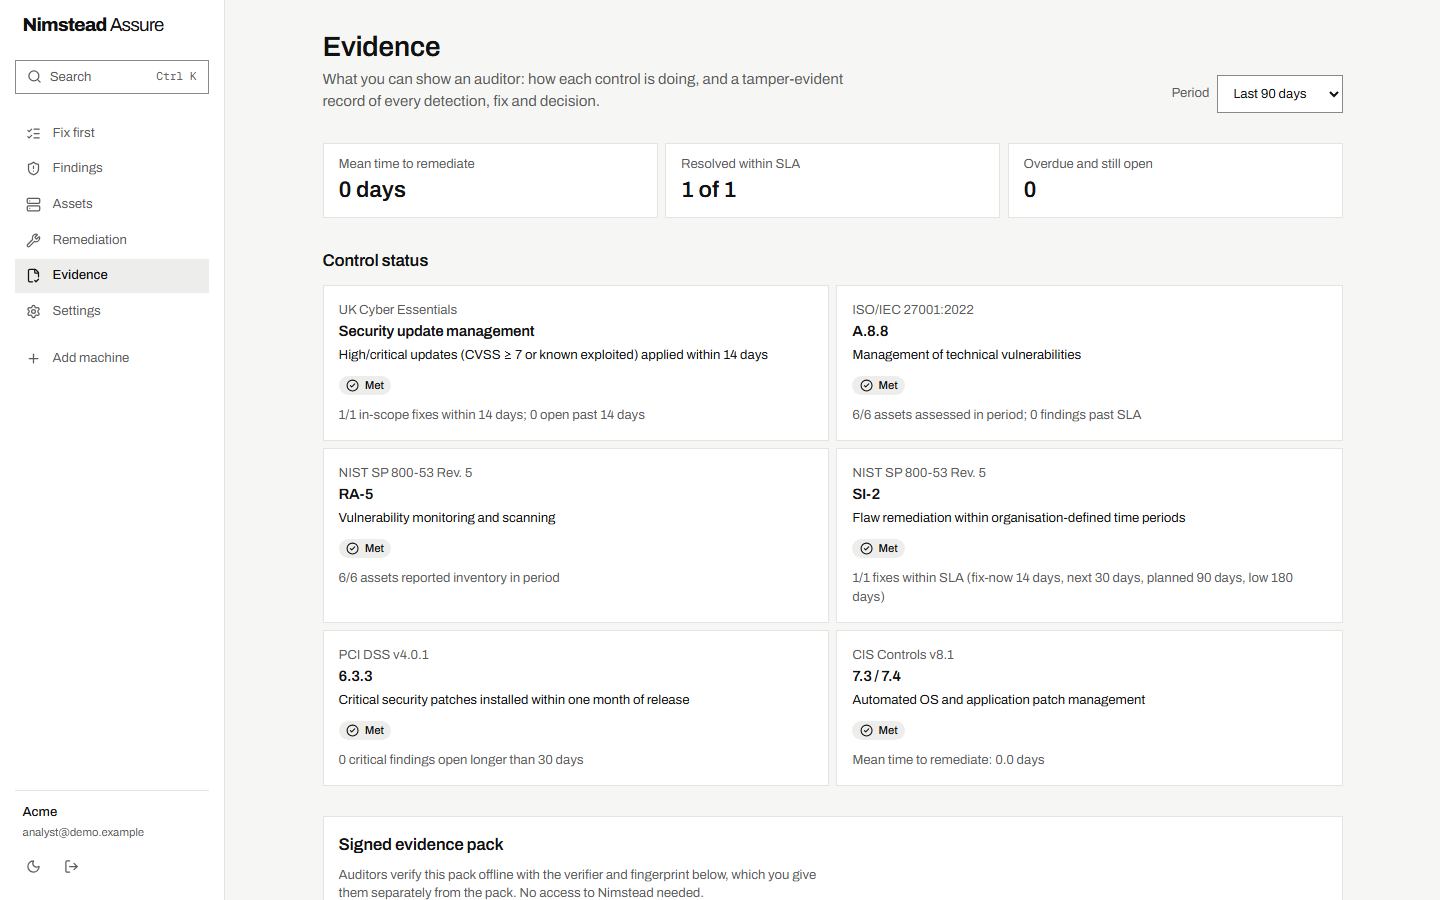
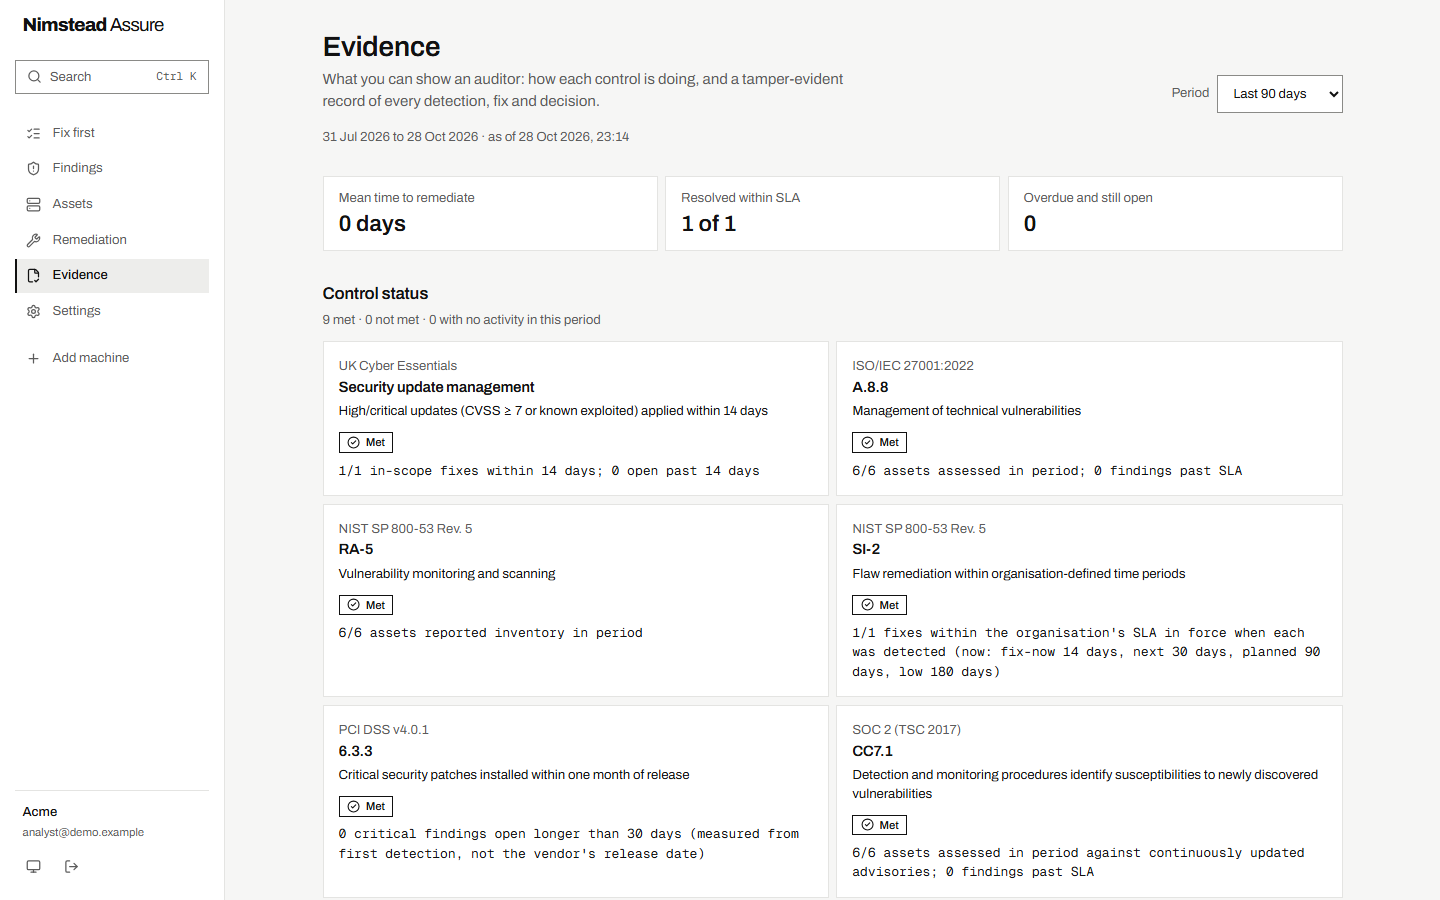
Docs: UI/UX round 1 changelog, DECISIONS 41-47, status, screenshots

diff --git a/DECISIONS.md b/DECISIONS.md
@@ -51,3 +51,10 @@ Short log; newest last. Why, not what.
 38. **The first install trusts the server; we say so rather than pretend.** Updates are signed (31), but `install.sh` fetches the first agent from the server, so a compromised server can hand new hosts a modified agent (enrolled hosts are unaffected). Verifying inside the installer wouldn't help: the verifier would come from the same server. So the fetch is HTTPS-only, the installer prints the agent's SHA-256, and docs/install.md shows the out-of-band path: download the release from GitHub, check it with a trusted agent's `verify-release`, compare hashes.
 39. **Agents only move forward, on their own channel.** A host records its channel at enrol (the installer passes its server's) and refuses signed releases from a less proven one, so a compromised server can't hand a stable fleet a preview build; hosts enrolled before 0.3.0 keep taking everything, as before. Remediation never installs an older build: a pinned version must be newer by the package manager's own ordering (`dpkg --compare-versions`, `apk version -t`), and any downgrade in a dry run is refused (apk would otherwise do it). Rollback copies are deleted once the outcome is saved (kept after a failed rollback), and no change starts below 1 GiB free, so neither normal use nor a stream of jobs fills the disk. A signed `min_agent_version` or revocation list was rejected: a compromised server can withhold any signal it relays, so the real defence is that hosts take the newest signed release and can never be pushed back (docs/release-keys.md).
 40. **The evidence pack says what its clocks measure.** Organisations set their own remediation deadlines per priority (NIST SI-2's "organisation-defined"), shown in the pack; each finding is held to the deadline in force when it was detected, read from the ledger, so relaxing one later can't turn an old miss into a pass; Cyber Essentials' 14 days stays fixed. Mappings added for SOC 2 CC7.1 and CC8.1 (CC8.1 from the approvals actually recorded on each remediation job) and NIS2 Art. 21(2)(e). Times run from first detection, not the vendor's release date (PCI 6.3.3 asks for the latter), and the pack says so instead of implying otherwise.
+41. **Confirm only what's high-stakes or hard to undo (UI round 1).** Switching the trust ladder to Auto, revoking an API token, removing someone or changing their role, signing out everywhere and cancelling a fix ask first, all through one `ConfirmDialog`; the browser's own `confirm()` is gone. Choosing a trust-ladder mode only selects it (arrow keys move through radios, so saving on change could turn on Auto by accident); Save applies it. Low-stakes per-machine settings (criticality, ring, internet-facing, health units) keep saving as you change them and say "Saved. Findings re-ranked." A per-machine edit form was rejected: more code for the same safety.
+42. **One set of shared components in `web/src/ui.tsx`.** Buttons, inputs, chips, switches, tags, alerts, "Saved" messages, fields, loading states, status pills and dialogs live in one place; pages don't define their own. Admin-only actions stay focusable with `aria-disabled` and point to one visible "Read-only" note, because a disabled button with a `title` can't be reached by keyboard or touch.
+43. **Square stays.** The identity is ink on paper with square corners and crimson only for "fix now" and KEV. The stray rounded chips, pills and skeletons were squared off; `rounded-full` is kept only for real circles (the switch). The remaining `rounded-*` classes do nothing under the zero-radius tokens and were left alone.
+44. **The server says whether a fix is already in flight.** `/api/summary` actions carry `asset_ids` and the newest active `job`, so Home links to it instead of offering "Plan fix", which the API refuses while a job is active. Failed jobs aren't included: they're listed under "needs a look" and can be planned again.
+45. **Evidence says "no activity" rather than "met" when there was nothing to assess (owner decision, 2026-10-28).** For controls that are only about timeliness (Cyber Essentials update management, NIST SI-2, CIS 7.3/7.4) a period with no fixes and nothing overdue, and for SOC 2 CC8.1 a period with no changes, is `no_activity`. An auditor reading a signed pack shouldn't have to work out that "met" meant "0 of 0". Controls that include monitoring (ISO A.8.8, RA-5, CC7.1, NIS2) or make a true negative claim (PCI 6.3.3) keep met/not met. Overdue findings always mean `not_met`. The value is added to the existing `nimstead-evidence/1` format; `verify_pack.py` doesn't read statuses, so old verifiers still verify new packs. Anyone parsing statuses should expect a third value.
+46. **Onboarding asks "test or production?" with no default (owner decision, 2026-10-28).** Sandbox is fixed per machine at enrolment (carried by the token; no API changes it later). Defaulting to production meant a surprising refusal on the first fix; defaulting to test would make real machines fixable by default. Two cards, each stating its consequence, and no install command until one is chosen.
+47. **TOTP setup shows a QR code drawn in the browser (owner decision, 2026-10-28).** `uqr` (MIT, no dependencies, pinned to 0.1.3) turns the `otpauth://` URI, which the browser already had, into a module matrix drawn as one SVG path: no `innerHTML`, no CSP change, and the secret never leaves the page. Always dark on white, because inverted codes fail on many phone scanners. Rejected: a server-rendered image (a new dependency in the server, and the secret sent again in an image response) and a hand-written encoder.

diff --git a/STATUS.md b/STATUS.md
@@ -1,6 +1,6 @@
 # Nimstead — status
 
-Read this first each session. Decisions and their reasons: DECISIONS.md (items 1–40; 27 is the threat model, 31–33 are signed updates and release channels, 34–40 are security round 4). Install: docs/install.md. Current plan: tasks/plan-0.4-security.md.
+Read this first each session. Decisions and their reasons: DECISIONS.md (items 1–47; 27 is the threat model, 31–33 are signed updates and release channels, 34–40 are security round 4). Install: docs/install.md. Current plan: tasks/plan-0.5-ux.md (UI/UX round 1, done; unreleased).
 
 ## Done (with evidence)
 | Area | Where | Evidence |
@@ -35,6 +35,7 @@ Read this first each session. Decisions and their reasons: DECISIONS.md (items 1
 | Docker Compose install: one image (UI built in, non-root, migrations on start), PostgreSQL 17, hourly `feeds` service; keys and checkpoints in a `data` volume | `Dockerfile`, `compose.yaml`, `.env.example`, `docs/install.md` | **PASS** in a disposable WSL Debian 13 distro with Docker 26 and Compose 2.26 (`sandbox/compose.py`, `last_run_compose.json`): following the README exactly (`cp .env.example .env`, set the password, `docker compose up -d`; the image is always built from source, never pulled) and serving in under 40 s, migrations at head, the real agent installed with the app's `install.sh` command (238 packages, agent 0.1.0, not outdated), CISA KEV pulled inside the container, then after a restart: sign-in, the host and the evidence signing key fingerprint all unchanged |
 | Web UI: onboarding, Fix-first home, findings (+CSV export), assets (+applications/SBOM), remediation, evidence, settings (trust ladder, deadlines, your account + two-step sign-in, people, enrolment and API tokens, SSO + domain verification, alerts) | `web/` | build clean; 23 vitest; Playwright e2e + axe (0 serious/critical) |
 | Security round 4 (0.4.0, DECISIONS 34–40): sign-up links set the password (pre-hijack closed); TOTP for admin password sign-in incl. break-glass, per-account code cap, no admin session without it; people management, idle timeout, sign out everywhere; password change and reset; read-only expiring API tokens; CSV export; body cap while reading; per-org quotas and AI budget; CSP/HSTS/frame/referrer headers and security.txt; ledger gaps; agent never downgrades, cleans up rollback copies, honours signed channels; installer, update.sh and CI/release hardening; per-org SLAs and SOC 2 / NIS2 mappings; risk acceptance everywhere and revoke | `app.py`, `mfa.py`, `evidence.py`, agent, installers, `deploy/update.sh`, `.github/`, `web/` | `tests/test_round4.py`, `tests/test_agent_round4.py`, `tests/test_workflows.py` + the real-host runs below |
+| UI/UX round 1 (tasks/plan-0.5-ux.md, DECISIONS 41–47): trust ladder saves only on Save, with Auto confirmed (machines and canary order named); one `ConfirmDialog` for token revoke, people changes, sign out everywhere, job cancel; cancel planned/approved fixes (`POST /api/remediation/jobs/{id}/cancel`); Home and the finding drawer link to the fix in flight, jobs link to their machine's findings; evidence `no_activity` for timeliness controls with nothing to assess; onboarding requires test or production; TOTP QR code; shared primitives in `ui.tsx`; Settings grouped with a section bar; system/light/dark theme; 44px targets on phones; visible keyboard highlight; focus returns from the drawer; route code-splitting | `web/src/*`, `app.py`, `remediate.py`, `evidence.py` | API 736 on SQLite (cancel lifecycle, summary `asset_ids`/`job`, `no_activity` incl. a signed pack verifying) · ruff clean · web 33 unit (`ux.test.tsx`: Auto confirm, Suggest saves without one, revoke and role confirms, no self-demotion, visible "Verified", cancel only before dispatch, onboarding choice + troubleshooting timer, QR snapshot) · 9 Playwright e2e: axe 0 serious/critical at 1440 and 375 in light and dark, with the Auto confirm, a confirm dialog and the palette open, and on sign-in/sign-up; keyboard pass (selecting by keyboard saves nothing, Enter opens a finding, Escape returns focus to it); every control ≥ 44px at 375 (in-row and in-label exemptions named in the test); Evidence one tap away · entry chunk 587 kB → 392 kB (uqr in its own 5 kB chunk) · Impeccable detector `[]` · npm audit 0 · README screenshots regenerated from the demo DB. Not run: PostgreSQL suite, a screen reader by hand, real phones |
 
 Real-host E2E (fresh WSL distro each, destroyed after):
 

diff --git a/tasks/plan-0.5-ux.md b/tasks/plan-0.5-ux.md
@@ -14,13 +14,13 @@ This plan fixes those with the smallest changes, reusing what exists. **No visua
 
 ## Goal: done when
 All of these hold. Each task's own "Done when" is the detail.
-- [ ] Every task T1–T18 below is checked off with its "Done when" met.
-- [ ] `cd web && npm run lint && npm test && npm run build`: clean, and the new tests pass.
-- [ ] `cd web && npm run e2e`: passes, with axe at 0 serious/critical at **1440 and 375, light and dark**, including the open dialogs added in T16.
-- [ ] `cd api && uv run pytest -q` passes (T4, T6 and T12 touch the API), and `uv run ruff check src tests` is clean.
-- [ ] `cd web && npm audit` reports 0 vulnerabilities after T18 adds `uqr`.
-- [ ] `~/.claude/skills/impeccable/scripts/impeccable detect --json web/src` still reports `[]`.
-- [ ] CHANGELOG has an "Unreleased" entry. STATUS.md has a row for this round with its evidence. No version bump or release, which is the owner's call.
+- [x] Every task T1–T18 below is checked off with its "Done when" met.
+- [x] `cd web && npm run lint && npm test && npm run build`: clean, and the new tests pass.
+- [x] `cd web && npm run e2e`: passes, with axe at 0 serious/critical at **1440 and 375, light and dark**, including the open dialogs added in T16.
+- [x] `cd api && uv run pytest -q` passes (T4, T6 and T12 touch the API), and `uv run ruff check src tests` is clean.
+- [x] `cd web && npm audit` reports 0 vulnerabilities after T18 adds `uqr`.
+- [x] `~/.claude/skills/impeccable/scripts/impeccable detect --json web/src` still reports `[]`.
+- [x] CHANGELOG has an "Unreleased" entry. STATUS.md has a row for this round with its evidence. No version bump or release, which is the owner's call.
 
 ## What exists (reuse, don't rebuild)
 - **`web/src/ui.tsx`:**
@@ -360,3 +360,24 @@ T1 → T2 → T3 → T4 → T5 → T6 → T7 → T8 → T9 → T10 → T11 → T
 
 - **Commits:** one per task, on a `ux-round-1` branch. Don't push or open a PR without asking.
 - **Stop and report** only if a task turns up a new product, security or compliance choice that decisions 1–7 don't cover. Otherwise keep going to the end.
+
+## Done (2026-10-28, branch `ux-round-1`)
+Every task's "Done when" is met; the evidence is in STATUS.md (row "UI/UX round 1").
+
+- **Checks:**
+  - API 736 passed and ruff is clean.
+  - Web: lint, 33 unit tests and the build all pass.
+  - 9 Playwright e2e tests pass, including axe at 1440 and 375 in light and dark with dialogs open, a keyboard pass, and 44px touch targets.
+  - The Impeccable detector reports `[]` and `npm audit` reports 0.
+- **Bundle:** the entry chunk went from 587 kB to 392 kB.
+- **Contrast:** the new highlight (an inset ink ring) on surface measures about 18.9:1 in light and 15.6:1 in dark, where the old tint was 1.17:1 and 1.21:1.
+
+### Where the work differed from the plan
+- **The QR code (T18) lives in `people.tsx` next to `MfaEnrol`, not in `ui.tsx`.** `ui.tsx` loads with every page, so putting it there would pull `uqr` into the entry chunk. `people.tsx` is only loaded with Settings and sign-in.
+- **The phone tab bar is Fix first, Findings, Remediation and Evidence (T12).** Assets moved under More, with Sign out (T9). Assets is configuration you visit less often; Remediation is where the daily work happens.
+- **Radix radio groups move focus on arrow keys without always checking the radio.** The e2e test therefore arrows to Auto, presses Space, and asserts that nothing was saved. The unit test clicks instead, because jsdom has no roving focus.
+- **Finding a real bug: the drawer didn't return focus to the row it opened from.** Radix only restores focus to a `Dialog.Trigger`, and this drawer opens from the URL. The fix captures the opener and refocuses it on close.
+- **The root font size is 15px, so Tailwind's `min-h-11` (2.75rem) is only 41px.** Touch targets therefore use explicit `min-h-[44px]`.
+- **e2e can run beside another dev server:** `NIMSTEAD_API_PORT` moves the test API off 8000 in `playwright.config.ts`, `e2e/start-api.mjs` and the Vite proxy.
+- **`web/scripts/readme-shots.mjs` now signs in with a TOTP code from the demo's key.** Admins need two-step sign-in since 0.4.0.
+- **Commits:** the work landed as a few grouped commits rather than one per task. The shared primitives (T1) touched every page, so per-task commits would not have built on their own.

diff --git a/CHANGELOG.md b/CHANGELOG.md
@@ -4,6 +4,28 @@ All notable changes to Nimstead Assure. The format follows [Keep a Changelog](ht
 
 ## [Unreleased]
 
+UI/UX round 1 (tasks/plan-0.5-ux.md): safer controls, connected pages, one set of shared components. The look stays the same.
+
+### Changed
+- **The trust ladder no longer switches itself to Auto.** Before, choosing a mode (one click, or one arrow key) saved it at once. Now choosing only selects; Save applies it, and Auto asks first, naming how many machines it covers and the canary-first order.
+- **Destructive actions ask first, the same way everywhere:** revoking an API token, removing someone, changing someone's role and signing out everywhere now use the same confirmation as deleting an asset. You can't demote or remove yourself from the People list.
+- **Fixes can be cancelled before a machine picks them up** (planned or approved), and cancelling one lets you plan it again. `POST /api/remediation/jobs/{id}/cancel`, admin only, recorded in the ledger.
+- **Home links to a fix already in flight** ("View fix") instead of offering "Plan fix" again. The finding drawer shows "Fix in progress" the same way. A job's summary and host link to that machine's findings. `/api/summary` actions carry `asset_ids` and `job`.
+- **Evidence says "No activity in period"** for timeliness controls (Cyber Essentials update management, NIST SI-2, CIS 7.3/7.4, SOC 2 CC8.1) when nothing was fixed or changed in the period and nothing is overdue, instead of "Met". Overdue findings still fail. **Signed packs can carry the new status `no_activity`**; the pack format and verifier are unchanged. The period's dates, an "as of" time and each control's counts are shown, and the period is kept in the URL (`?period=30`).
+- **Onboarding asks "test or production machines?"** with nothing preselected (it can't be changed after enrolment). It shows troubleshooting after two minutes without a report, and waits for you instead of redirecting on its own.
+- **Two-step sign-in shows a QR code** to scan, drawn in the page; the typed key stays as a fallback.
+- Settings is grouped into Remediation, Access, Alerts, Your account and This server, with a section bar. Saves say "Saved"; asset changes say the findings were re-ranked.
+- Theme follows your system until you pick light or dark, and can go back to following it.
+- On phones, Evidence is in the tab bar (Assets moved under More, with Sign out), and buttons, links and form controls are at least 44px tall.
+
+### Fixed
+- "Verified" next to an SSO domain was the same colour as the page in both themes.
+- Admin-only buttons could not be focused, so keyboard and touch users never saw why they were off; they now stay focusable and point to a visible "Read-only" note.
+- Focus returns to the finding you opened when its drawer closes.
+- Keyboard focus on menus, the command palette and filters is visible (not just a faint tint); loading states are announced; the findings table names its columns on phones; reduced motion also stops transitions.
+- Plan fix no longer downloads up to 5,000 findings to look up machine ids.
+- The web bundle loads Settings, Evidence, sign-in and onboarding on demand (entry chunk 587 kB to 392 kB).
+
 ## [0.4.0] - 2026-10-28
 
 Security round 4 and what a first team needs: people management, two-step sign-in, API tokens and CSV export. Agent 0.3.0.
